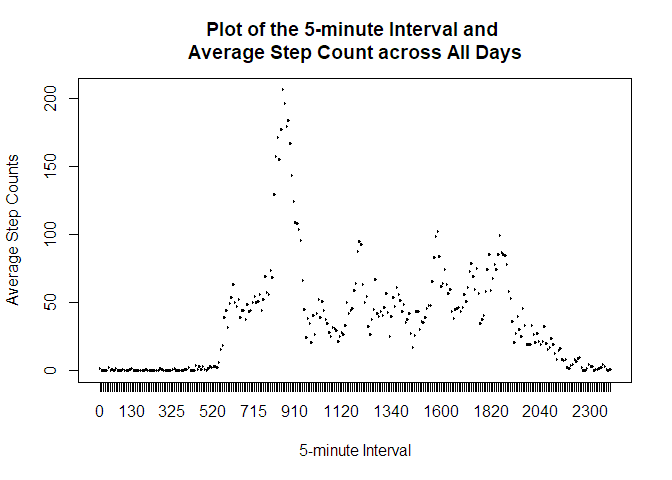
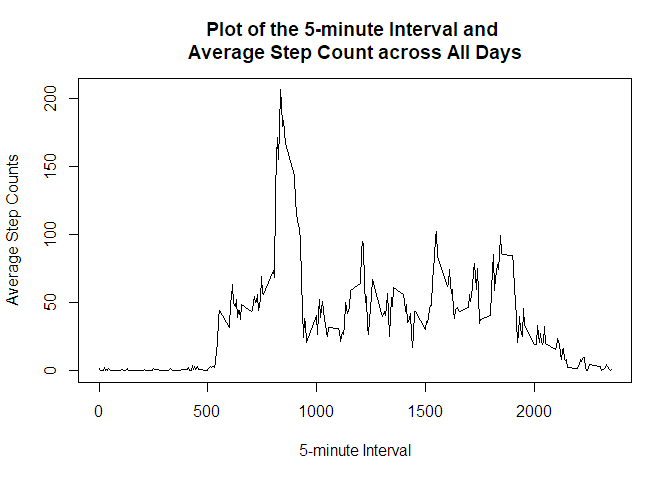
Second commit

diff --git a/PA1_template.html b/PA1_template.html
@@ -131,14 +131,13 @@ if (!file.exists(&quot;activity.csv&quot;)) {
 ## Load the data.
 activity &lt;- read.csv(&quot;activity.csv&quot;)</code></pre>
 <p>Some simple preprocessing.</p>
-<pre class="r"><code>activity$date &lt;- as.Date(activity$date)
-activity$interval &lt;- as.factor(activity$interval)</code></pre>
+<pre class="r"><code>activity$date &lt;- as.Date(activity$date)</code></pre>
 <p>A simple description of data.</p>
 <pre class="r"><code>str(activity)</code></pre>
 <pre><code>## 'data.frame':    17568 obs. of  3 variables:
 ##  $ steps   : int  NA NA NA NA NA NA NA NA NA NA ...
 ##  $ date    : Date, format: &quot;2012-10-01&quot; &quot;2012-10-01&quot; ...
-##  $ interval: Factor w/ 288 levels &quot;0&quot;,&quot;5&quot;,&quot;10&quot;,&quot;15&quot;,..: 1 2 3 4 5 6 7 8 9 10 ...</code></pre>
+##  $ interval: int  0 5 10 15 20 25 30 35 40 45 ...</code></pre>
 </div>
 <div id="what-is-mean-total-number-of-steps-taken-per-day" class="section level2">
 <h2>What is mean total number of steps taken per day?</h2>
@@ -158,7 +157,7 @@ total_median &lt;- median(total$x)</code></pre>
 <p>Plot about 5-minute interval and average steps across all days.</p>
 <pre class="r"><code>pattern &lt;- aggregate(activity$steps, list(interval = activity$interval), mean, na.rm = TRUE)
 plot(pattern$interval, pattern$x, type = 'l', xlab = &quot;5-minute Interval&quot;, ylab = &quot;Average Step Counts&quot;, main = &quot;Plot of the 5-minute Interval and \nAverage Step Count across All Days&quot;)</code></pre>
[2 lines of base64/hex data omitted]
 <p>Find the 5-minute interval with the maximum number of average steps.</p>
 <pre class="r"><code>max_interval &lt;- pattern$interval[which.max(pattern$x)]</code></pre>
 <p>The 5-minute interval <strong>835</strong> contains the maximum number of average steps.</p>
@@ -197,7 +196,7 @@ activity_fixed$weekends &lt;- factor(activity_fixed$weekends, labels = c(&quot;w
 <p>Plot about 5-minute interval and average steps across all weekday days and weekend days.</p>
 <pre class="r"><code>pattern_wk &lt;- aggregate(activity_fixed$steps, list(interval = activity_fixed$interval, weekends = activity_fixed$weekends), mean)
 library(lattice)
-xyplot(x ~ as.integer(as.character(interval)) | weekends, data = pattern_wk, type = &quot;l&quot;, layout = c(1, 2), xlab = &quot;Interval&quot;, ylab = &quot;Average Step Number&quot;, main = &quot;Average Step Number of Interval for Weekdays and Weekends&quot;)</code></pre>
+xyplot(x ~ interval | weekends, data = pattern_wk, type = &quot;l&quot;, layout = c(1, 2), xlab = &quot;Interval&quot;, ylab = &quot;Average Step Number&quot;, main = &quot;Average Step Number of Interval for Weekdays and Weekends&quot;)</code></pre>
[1 lines of base64/hex data omitted]
 </div>
 

diff --git a/PA1_template.md b/PA1_template.md
@@ -21,7 +21,6 @@ Some simple preprocessing.
 
 ```r
 activity$date <- as.Date(activity$date)
-activity$interval <- as.factor(activity$interval)
 ```
 
 A simple description of data.
@@ -35,7 +34,7 @@ str(activity)
 ## 'data.frame':	17568 obs. of  3 variables:
 ##  $ steps   : int  NA NA NA NA NA NA NA NA NA NA ...
 ##  $ date    : Date, format: "2012-10-01" "2012-10-01" ...
-##  $ interval: Factor w/ 288 levels "0","5","10","15",..: 1 2 3 4 5 6 7 8 9 10 ...
+##  $ interval: int  0 5 10 15 20 25 30 35 40 45 ...
 ```
 
 ## What is mean total number of steps taken per day?
@@ -161,7 +160,7 @@ Plot about 5-minute interval and average steps across all weekday days and weeke
 ```r
 pattern_wk <- aggregate(activity_fixed$steps, list(interval = activity_fixed$interval, weekends = activity_fixed$weekends), mean)
 library(lattice)
-xyplot(x ~ as.integer(as.character(interval)) | weekends, data = pattern_wk, type = "l", layout = c(1, 2), xlab = "Interval", ylab = "Average Step Number", main = "Average Step Number of Interval for Weekdays and Weekends")
+xyplot(x ~ interval | weekends, data = pattern_wk, type = "l", layout = c(1, 2), xlab = "Interval", ylab = "Average Step Number", main = "Average Step Number of Interval for Weekdays and Weekends")
 ```
 
 ![](PA1_template_files/figure-html/unnamed-chunk-13-1.png)<!-- -->
